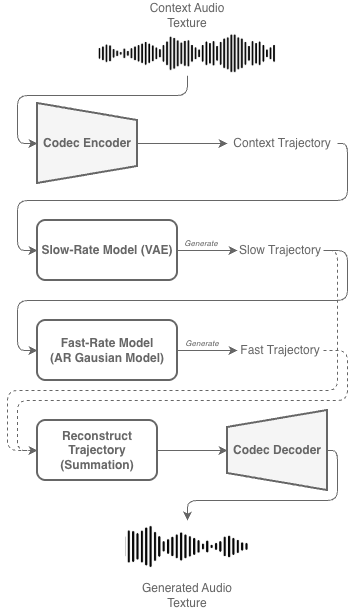
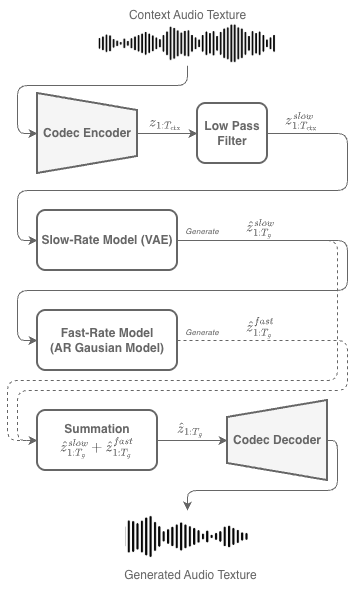
Web update

diff --git a/index.html b/index.html
@@ -119,6 +119,41 @@
     </div>
   </section>
 
+  <section class="section" id="long-horizon">
+    <div class="container is-max-desktop">
+      <div class="columns is-centered">
+        <div class="column is-four-fifths">
+          <h2 class="title is-3 has-text-centered">Long Horizon Generations</h2>
+          <div class="content has-text-justified">
+            <p>
+              This section presents long-horizon generations, where each sample is a 1-minute audio segment generated from 10 seconds of context audio.
+            </p>
+          </div>
+          <div class="columns is-multiline">
+            <div class="column is-4">
+              <div class="box">
+                <p><strong>Sea Waves</strong></p>
+                <p class="is-size-7">10s context + 1-minute generated continuation.</p>
+              </div>
+            </div>
+            <div class="column is-4">
+              <div class="box">
+                <p><strong>Rain</strong></p>
+                <p class="is-size-7">10s context + 1-minute generated continuation.</p>
+              </div>
+            </div>
+            <div class="column is-4">
+              <div class="box">
+                <p><strong>Thunder</strong></p>
+                <p class="is-size-7">10s context + 1-minute generated continuation.</p>
+              </div>
+            </div>
+          </div>
+        </div>
+      </div>
+    </div>
+  </section>
+
   <section class="section" id="method">
     <div class="container is-max-desktop">
       <div class="columns is-centered">
@@ -157,16 +192,23 @@
 
             <h3 class="title is-4">Slow-Rate Model</h3>
             <p>
-              Add content here describing the model used for long-term structure and slowly varying temporal dynamics.
+              The slow-rate model uses a VAE to generate long-term trajectory structure from a context segment. A GRU-based encoder maps the context to a latent vector, which conditions a decoder to produce the continuation. The model can iteratively extend textures by feeding generated trajectories back in as new context, enabling coherent long-duration synthesis while maintaining controllable global structure.
             </p>
+            <div class="box has-text-centered">
+              <figure>
+                <img src="static/images/model_diagrams/slow_rate.png" alt="Slow-rate model diagram">
+              </figure>
+            </div>
 
             <h3 class="title is-4">Fast-Rate Model</h3>
             <p>
-              Add content here describing the model used for local detail, fast stochastic variation, and short-term continuation.
+              The fast-rate model generates the high-frequency residual using an autoregressive RNN conditioned on the slow trajectory. At each step, it predicts a stochastic residual sample based on the previous output and current slow trajectory, capturing local, stochastic dynamics. This sequential process enables flexible, long-duration generation of fine-grained detail.
             </p>
 
             <div class="box has-text-centered">
-              <p><strong>Placeholder:</strong> Add method figure, diagram, or explanatory text here.</p>
+              <figure>
+                <img src="static/images/model_diagrams/fast_rate_vae.png" alt="Fast-rate model diagram">
+              </figure>
             </div>
           </div>
         </div>
